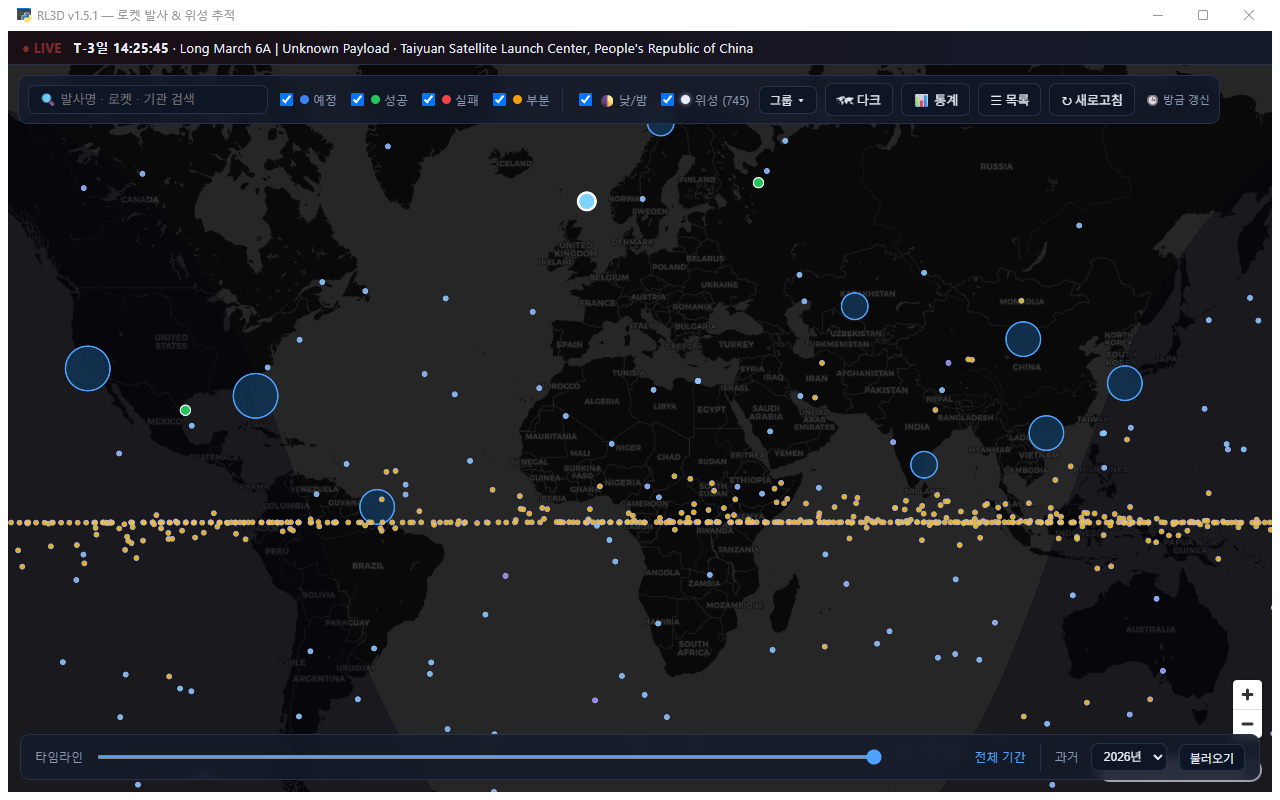
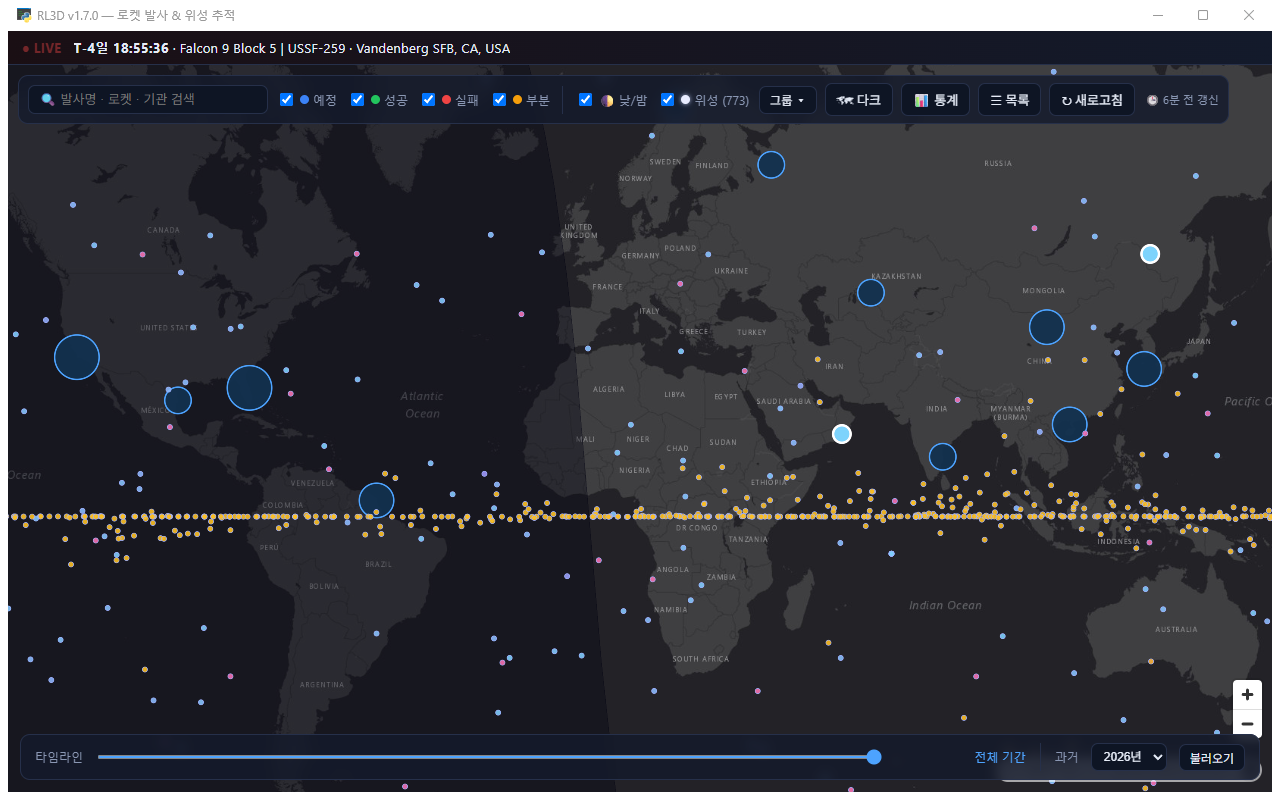
지도 배경을 Esri 로 옮기고, 보조 모니터 규칙이 안 지켜지던 것을 고친다 (v1.7.1)
CARTO(basemaps.cartocdn.com/dark_all)가 API 키를 요구하기 시작했다. 403 이 아니라
HTTP 200 으로 "API KEY REQUIRED" 워터마크가 찍힌 타일을 보낸다. 오류가 아니라
정상 응답이라 오프라인 배지(P11-7)도 못 잡는 조용한 실패다. v1.5.1 스크린샷과
대조해 이 앱의 변경이 아니라 외부 정책 변화임을 확인했다.

Esri Dark Gray Canvas 로 옮겼다. 키가 필요 없고, 위성사진 배경으로 이미 쓰는
호스트라 외부 의존이 늘지 않는다. 검토한 대안: Stadia 는 401 로 막혔고, OSM 기본은
밝은 지도라 상황판 톤과 맞지 않는다. 소스·레이어 id 도 carto -> darkbase 로
바꿨다 - 이름이 거짓이 되면 다음에 엉뚱한 곳을 찾게 된다.

감지 로직은 넣지 않기로 했다. 증상은 교체로 사라지고, 지금 만들면 다음 제공자의
워터마크 모양을 모르는 채 짓는 꼴이 된다. 근거가 쌓이면 그때.

그리고 RL3D_DEV_MONITOR=2 가 주 모니터에 창을 띄우고 있었다. Screen.AllScreens 의
순서는 사용자가 보는 "디스플레이 1/2"와 무관하다 - 이 PC 실측으로 AllScreens[0] 이
보조, [1] 이 주였다. "보조에서만 테스트한다"는 프로젝트 규칙이 그동안 조용히
안 지켜지고 있었다는 뜻이다. order_screens() 로 주 모니터를 1번으로 정렬한다.

CLAUDE.md 도 같이 고쳤다: 번호를 정렬 후에 센다는 것, 그리고 띄운 뒤 창 좌표가
어느 모니터 Bounds 안에 드는지로 확인한다는 것. 환경변수를 줬다는 사실만으로는
증거가 아니다 - 이번이 정확히 그 경우였다.

실측: test_parsing 48 -> 53 통과 / test_frontend 123 통과 / exe 빌드 5초 /
빌드한 exe 를 보조 모니터에서 확인(x=2880, Primary=False)하고 종료.
README 스크린샷은 settings.json 을 미리 써두고 재실행 -> PrintWindow 로 갱신했다.

첫 빌드는 실패했다. 앞서 검증용으로 띄운 exe 가 dist\RL3D.exe 를 잠그고 있었다
(PermissionError WinError 5). 확인이 끝나면 끄는 것이 규칙에 들어간 이유가 이것이다.

Claude-Session: https://claude.ai/code/session_01Mcw922UJQt4expxiTSjxCM

diff --git a/web/js/map.js b/web/js/map.js
@@ -21,16 +21,16 @@ function initMap() {
     style: {
       version: 8,
       sources: {
-        carto: {
+        // 다크 배경. 2026-09-11 에 CARTO(basemaps.cartocdn.com/dark_all)에서 옮겨 왔다 —
+        // CARTO 가 API 키를 요구하기 시작해 **HTTP 200 으로 워터마크가 찍힌 타일**을
+        // 보낸다. 오류가 아니라 정상 응답이라 오프라인 배지(P11-7)도 못 잡는다.
+        // Esri 는 위성사진 배경으로 이미 쓰는 호스트라 외부 의존이 늘지 않는다.
+        darkbase: {
           type: "raster",
-          tiles: [
-            "https://a.basemaps.cartocdn.com/dark_all/{z}/{x}/{y}.png",
-            "https://b.basemaps.cartocdn.com/dark_all/{z}/{x}/{y}.png",
-            "https://c.basemaps.cartocdn.com/dark_all/{z}/{x}/{y}.png",
-          ],
+          tiles: ["https://server.arcgisonline.com/ArcGIS/rest/services/Canvas/World_Dark_Gray_Base/MapServer/tile/{z}/{y}/{x}"],
           tileSize: 256,
-          maxzoom: 20,  // CARTO dark 타일은 z20까지 → 그 이상은 overzoom(배경 안 깨짐)
-          attribution: "© OpenStreetMap © CARTO",
+          maxzoom: 16,  // 서비스는 z23까지 광고하지만 실제 렌더는 저줌대라 16 위는 overzoom
+          attribution: "Esri, HERE, Garmin, © OpenStreetMap contributors",
         },
         // 위성사진 배경. 두 소스를 함께 두고 visibility 로 바꾼다
         // (setStyle 로 갈아끼우면 마커·궤적·터미네이터 레이어를 전부 다시 만들어야 한다).
@@ -44,7 +44,7 @@ function initMap() {
         },
       },
       layers: [
-        { id: "carto", type: "raster", source: "carto" },
+        { id: "darkbase", type: "raster", source: "darkbase" },
         { id: "esri", type: "raster", source: "esri", layout: { visibility: "none" } },
       ],
     },
@@ -84,14 +84,14 @@ function setOfflineBadge(on) {
 
 function setupOfflineBadge() {
   map.on("error", (e) => {
-    if (e && (e.sourceId === "carto" || e.sourceId === "esri")) {
+    if (e && (e.sourceId === "darkbase" || e.sourceId === "esri")) {
       if (++tileFails >= TILE_FAIL_LIMIT) setOfflineBadge(true);
     }
   });
   // 타일이 하나라도 성공하면 연결이 살아난 것 → 카운터와 배지를 함께 되돌린다
   map.on("data", (e) => {
     if (e && e.dataType === "source" && e.tile && e.tile.state === "loaded"
-        && (e.sourceId === "carto" || e.sourceId === "esri")) {
+        && (e.sourceId === "darkbase" || e.sourceId === "esri")) {
       tileFails = 0;
       setOfflineBadge(false);
     }
@@ -108,8 +108,8 @@ function setupOfflineBadge() {
 // ── 배경 지도 전환 (다크 / 위성사진) ──────────────────────────────────────────
 function setBasemap(kind) {
   basemap = kind === "satellite" ? "satellite" : "dark";
-  if (map && map.getLayer("carto")) {
-    map.setLayoutProperty("carto", "visibility", basemap === "dark" ? "visible" : "none");
+  if (map && map.getLayer("darkbase")) {
+    map.setLayoutProperty("darkbase", "visibility", basemap === "dark" ? "visible" : "none");
     map.setLayoutProperty("esri", "visibility", basemap === "satellite" ? "visible" : "none");
   }
   const btn = document.getElementById("basemap-btn");

diff --git a/tests/test_frontend.js b/tests/test_frontend.js
@@ -132,14 +132,14 @@ const { loadApp, group, check, done } = require("./harness");
   const shown = () => !el("offline-badge").hidden;
   check("온라인 시작 — 안 보임", shown(), false);
 
-  map.fire("error", { sourceId: "carto" });
-  map.fire("error", { sourceId: "carto" });
+  map.fire("error", { sourceId: "darkbase" });
+  map.fire("error", { sourceId: "darkbase" });
   check("타일 실패 2회까지는 뜨지 않는다(한두 개 실패는 흔하다)", shown(), false);
-  map.fire("error", { sourceId: "carto" });
+  map.fire("error", { sourceId: "darkbase" });
   check("연속 3회에서 표시", shown(), true);
   check("문구에 오프라인 안내", el("offline-badge").textContent.includes("오프라인"), true);
 
-  map.fire("data", { dataType: "source", sourceId: "carto", tile: { state: "loaded" } });
+  map.fire("data", { dataType: "source", sourceId: "darkbase", tile: { state: "loaded" } });
   check("타일이 다시 받아지면 스스로 사라진다", [shown(), state.tileFails], [false, 0]);
 
   map.fire("error", { sourceId: "launches" });

diff --git a/tests/test_parsing.py b/tests/test_parsing.py
@@ -485,6 +485,48 @@ class TestSmokeConsoleEncoding(unittest.TestCase):
         self.assertIn("UnicodeEncodeError", done.stderr)
 
 
+class TestMonitorOrder(unittest.TestCase):
+    """개발 모니터 번호 (2026-09-11 실측 버그).
+
+    `Screen.AllScreens` 순서는 사용자가 보는 "디스플레이 1/2"와 무관하다 — 이 PC 는
+    AllScreens[0] 이 **보조**, [1] 이 **주**였다. 그대로 인덱싱하면 `RL3D_DEV_MONITOR=2`
+    가 주 모니터를 가리켜 "보조에서만 테스트한다"는 규칙이 **조용히** 안 지켜진다.
+    """
+
+    class _S:
+        def __init__(self, name, primary):
+            self.name, self.Primary = name, primary
+
+        def __repr__(self):
+            return self.name
+
+    def test_primary_comes_first_even_when_listed_last(self):
+        """실측된 배치 그대로 — 보조가 먼저 나열돼도 주가 1번이어야 한다."""
+        sec, pri = self._S("보조", False), self._S("주", True)
+        order = main_mod.order_screens([sec, pri])
+        self.assertIs(order[0], pri)
+        self.assertIs(order[1], sec)
+        # 막지 않았으면 무엇이 일어났을 것인가 — 정렬 없이는 2번이 주 모니터였다.
+        self.assertIs([sec, pri][1], pri)
+
+    def test_already_primary_first_is_unchanged(self):
+        pri, sec = self._S("주", True), self._S("보조", False)
+        self.assertEqual(main_mod.order_screens([pri, sec]), [pri, sec])
+
+    def test_three_screens_keep_relative_order_of_others(self):
+        a, pri, b = self._S("a", False), self._S("주", True), self._S("b", False)
+        self.assertEqual(main_mod.order_screens([a, pri, b]), [pri, a, b])
+
+    def test_single_screen(self):
+        pri = self._S("주", True)
+        self.assertEqual(main_mod.order_screens([pri]), [pri])
+
+    def test_no_primary_reported(self):
+        """주 모니터가 없다고 보고되는 환경에서도 죽지 않는다(원격 세션 등)."""
+        a, b = self._S("a", False), self._S("b", False)
+        self.assertEqual(main_mod.order_screens([a, b]), [a, b])
+
+
 def main():
     global UPDATE
     # 테스트가 일부러 실패 경로를 태우므로 로그가 stderr 로 샌다(핸들러 없을 때의 기본

diff --git a/main.py b/main.py
@@ -19,7 +19,7 @@ import startup
 
 log = logging.getLogger(__name__)
 
-__version__ = "1.7.0"   # 배포 단위. 올릴 때 CHANGELOG.md 도 함께 갱신한다.
+__version__ = "1.7.1"   # 배포 단위. 올릴 때 CHANGELOG.md 도 함께 갱신한다.
 
 
 def resource_path(rel):
@@ -58,11 +58,25 @@ def _monitor_areas():
         return None
 
 
+def order_screens(screens):
+    """사용자가 보는 모니터 번호 순서로 정렬 — **주 모니터가 1번**, 나머지가 그 뒤.
+
+    `Screen.AllScreens` 의 순서는 사용자의 "디스플레이 1/2"와 무관하다(2026-09-11 실측:
+    이 PC 는 AllScreens[0] 이 보조, [1] 이 주였다). 그대로 인덱싱하면 `=2` 가 **주
+    모니터**를 가리켜, "보조에서 테스트한다"는 규칙이 조용히 지켜지지 않는다.
+    순수 함수라 테스트 대상 — screens 는 `.Primary` 를 가진 객체 목록이면 된다.
+    """
+    primary = [s for s in screens if s.Primary]
+    others = [s for s in screens if not s.Primary]
+    return primary + others
+
+
 def dev_window_pos(width, height):
     """개발 테스트 규칙: 창을 지정 모니터(기본 2번=보조)에 중앙 배치.
 
-    환경변수 RL3D_DEV_MONITOR 가 설정됐을 때만 동작(값 = 1부터 시작하는 모니터 번호,
-    미지정 시 첫 비주(非主) 모니터). 배포 exe 는 이 변수가 없어 OS 기본 위치에 뜬다.
+    환경변수 RL3D_DEV_MONITOR 가 설정됐을 때만 동작. 값은 **주 모니터를 1번으로 세는**
+    번호이고(order_screens), 숫자가 아니거나 범위를 벗어나면 첫 비주(非主) 모니터.
+    배포 exe 는 이 변수가 없어 OS 기본 위치에 뜬다.
     좌표를 못 구하면 (None, None) → pywebview 기본값 사용.
     """
     sel = os.environ.get("RL3D_DEV_MONITOR")
@@ -73,7 +87,7 @@ def dev_window_pos(width, height):
         clr.AddReference("System.Windows.Forms")
         from System.Windows.Forms import Screen
 
-        screens = list(Screen.AllScreens)
+        screens = order_screens(list(Screen.AllScreens))
         target = None
         if sel.isdigit() and int(sel) >= 1:
             idx = int(sel) - 1

diff --git a/README.md b/README.md
@@ -1,13 +1,13 @@
 # RL3D — 로켓 발사 & 위성 추적
 
-**v1.7.0** · [변경 이력](CHANGELOG.md) · [![tests](https://github.com/yim2412/RL3D/actions/workflows/tests.yml/badge.svg)](https://github.com/yim2412/RL3D/actions/workflows/tests.yml)
+**v1.7.1** · [변경 이력](CHANGELOG.md) · [![tests](https://github.com/yim2412/RL3D/actions/workflows/tests.yml/badge.svg)](https://github.com/yim2412/RL3D/actions/workflows/tests.yml)
 
 전 세계 로켓 발사를 **2D 지도**에 표시하고, 위성을 실시간으로 움직이게 보여주는 Windows 데스크톱 앱.
 뉴스 상황판 감성의 다크 테마. pywebview + MapLibre GL 로 만든 단일 exe(설치 불필요).
 
 ![RL3D 화면 — 발사 마커·위성 레이어·낮/밤 오버레이](docs/screenshot.png)
 
-> 위 화면(v1.5.1): 발사장 마커(클러스터), 위성 745개의 실시간 위치(stations+visual+GEO — 적도를 따라
+> 위 화면(v1.7.0): 발사장 마커(클러스터), 위성 773개의 실시간 위치(stations+visual+GEO+GPS — 적도를 따라
 > 늘어선 주황 점이 정지궤도 벨트), 낮/밤 오버레이, 다음 발사까지 카운트다운하는 상단 속보 티커, 하단 타임라인.
 
 ## 기능
@@ -24,7 +24,7 @@
 - 🛫 **관점 화면 (발사장 · 기관 · 로켓)** — 상세 패널의 발사장·기관·로켓 이름을 클릭하면 그 대상만의 총 발사·성공률과
   구성 막대(발사장은 로켓·기관·패드별, 기관/로켓은 로켓·발사장·연도별) + 예정/최근 발사 목록
 - ⭐ **관심 발사 · 위성** — 상세 패널의 `☆ 관심`으로 담아두면 지도에서 금색으로 강조되고 사이드바 **⭐ 관심** 탭에 모인다. 다음 실행에도 유지
-- 🗺 **배경 지도 전환** — 다크(CARTO) ↔ 위성사진(Esri). 툴바에서 전환, 설정에 저장
+- 🗺 **배경 지도 전환** — 다크 ↔ 위성사진(둘 다 Esri). 툴바에서 전환, 설정에 저장
 - 🗄 **과거 발사 아카이브** — 타임라인 옆에서 연도(최근 5년) 선택 후 불러오면 그 해 발사가 지도·목록·타임라인에 추가됨. 지난 연도는 영구 캐시(재요청 없음)
 - 📊 **발사 통계** — 총 발사·성공률·예정 요약 + 결과별/연도별/기관/국가 막대(불러온 데이터 기준, 아카이브를 불러올수록 정확)
 - 🛰 **위성 그룹 선택** — stations·visual·Starlink·GPS·Galileo·기상·과학·GEO 토글.
@@ -74,7 +74,7 @@ RL3D_DEV_MONITOR=2 python main.py   # 창을 2번(보조) 모니터에 배치
 ## ⚠ 온라인/오프라인
 
 - MapLibre GL·satellite.js 라이브러리는 exe 안에 **오프라인 번들**(`web/lib/`)로 포함
-- 단 **지도 배경 타일(CARTO dark · Esri World Imagery)과 발사/위성 데이터는 인터넷 연결이 필요**하다
+- 단 **지도 배경 타일(Esri Dark Gray Canvas · Esri World Imagery)과 발사/위성 데이터는 인터넷 연결이 필요**하다
 - 오프라인이면 발사·위성은 저장된 캐시로 그대로 뜨고 **배경 지도만 비어 보인다** → 이때 지도 좌하단에
   안내 배지가 나타난다(눌러서 닫을 수 있고, 연결이 돌아와 타일이 받아지면 스스로 사라진다)
 - 완전 오프라인(지도 배경까지)은 현재 범위 밖 — 로컬 타일 번들은 향후 과제

diff --git a/CHANGELOG.md b/CHANGELOG.md
@@ -2,6 +2,27 @@
 
 버전은 `main.py`의 `__version__` 이 기준이다. 형식은 `주.부.수` (기능 추가는 부, 수정은 수).
 
+## [1.7.1] - 2026-09-11
+
+CARTO 가 API 키를 요구하기 시작해 지도 배경이 워터마크로 덮였다. 배경을 교체하고,
+그 과정에서 개발 도구 버그를 하나 찾았다.
+
+### 수정
+- **다크 배경 지도를 Esri Dark Gray Canvas 로 교체** — CARTO(`basemaps.cartocdn.com/dark_all`)가
+  **HTTP 200 으로 `API KEY REQUIRED` 워터마크가 찍힌 타일**을 보낸다. 오류가 아니라 정상
+  응답이라 오프라인 배지(P11-7)도 못 잡는 **조용한 실패**다. Esri 는 위성사진 배경으로 이미
+  쓰는 호스트라 외부 의존이 늘지 않는다. 소스·레이어 id 도 `carto` → `darkbase` 로 바꿨다
+  (이름이 거짓이 되면 다음 사람이 엉뚱한 곳을 찾는다)
+- **`RL3D_DEV_MONITOR=2` 가 주 모니터에 창을 띄우던 것** — `Screen.AllScreens` 의 순서는
+  사용자가 보는 "디스플레이 1/2"와 **무관하다**. 이 PC 실측: `AllScreens[0]` 이 보조,
+  `[1]` 이 주였다. 그래서 `=2` 가 주 모니터를 가리켰고, **"보조에서만 테스트한다"는
+  프로젝트 규칙이 조용히 지켜지지 않고 있었다.** `order_screens()` 로 주 모니터를 1번으로
+  정렬한다. 회귀 테스트 5건 추가(48 → 53)
+
+### 문서
+- **README 스크린샷 갱신** — v1.5.1 화면은 이제 존재하지 않는 배경(CARTO)을 보여줬다.
+  `settings.json` 을 미리 써두고 재실행 → PrintWindow 로 캡처(P11 검증 메모의 방법 그대로)
+
 ## [1.7.0] - 2026-09-11
 
 Phase 12 ③번 묶음(P12-1 · P12-2). **"지나간다"와 "눈에 보인다"를 구분한다.**

diff --git a/CLAUDE.md b/CLAUDE.md
@@ -73,7 +73,13 @@ build.bat          # exe 빌드 → dist\RL3D.exe
   쓰지 않는다. 창이 떴는지·오류가 없는지·데이터가 맞는지는 프로세스/로그/API 반환값으로 확인한다.
   **(이 항목은 전역으로 올리지 않았다 — 국방시스템공학은 반대 방침이라 프로젝트마다 다르다. 전역 10번 참조.)**
 - **GUI 창은 2번(보조) 모니터에만 띄워 테스트한다.** 개발 실행은 `RL3D_DEV_MONITOR=2 python main.py` 로 돌려
-  창이 2번 모니터에 뜨게 한다(`main.py` 의 `dev_window_pos`). 이 환경변수는 배포 exe 엔 영향 없다.
+  창이 보조 모니터에 뜨게 한다(`main.py` 의 `dev_window_pos`). 이 환경변수는 배포 exe 엔 영향 없다.
+  **끝나면 앱을 끄고 다음 작업으로 간다** — 띄워 둔 채로 넘어가지 않는다.
+  - **번호는 `order_screens()` 로 정렬한 뒤 센다(주 모니터가 1번).** `Screen.AllScreens` 의 순서는
+    사용자가 보는 "디스플레이 1/2"와 **무관하다** — 2026-09-11 실측에서 `AllScreens[0]` 이 보조,
+    `[1]` 이 주였고, 그래서 `=2` 가 **주 모니터**를 가리켜 이 규칙이 조용히 안 지켜지고 있었다.
+  - 띄운 뒤에는 창 좌표가 어느 모니터 `Bounds` 안에 드는지로 **확인**한다. 환경변수를 줬다는
+    사실만으로는 증거가 아니다.
 
 ---
 
